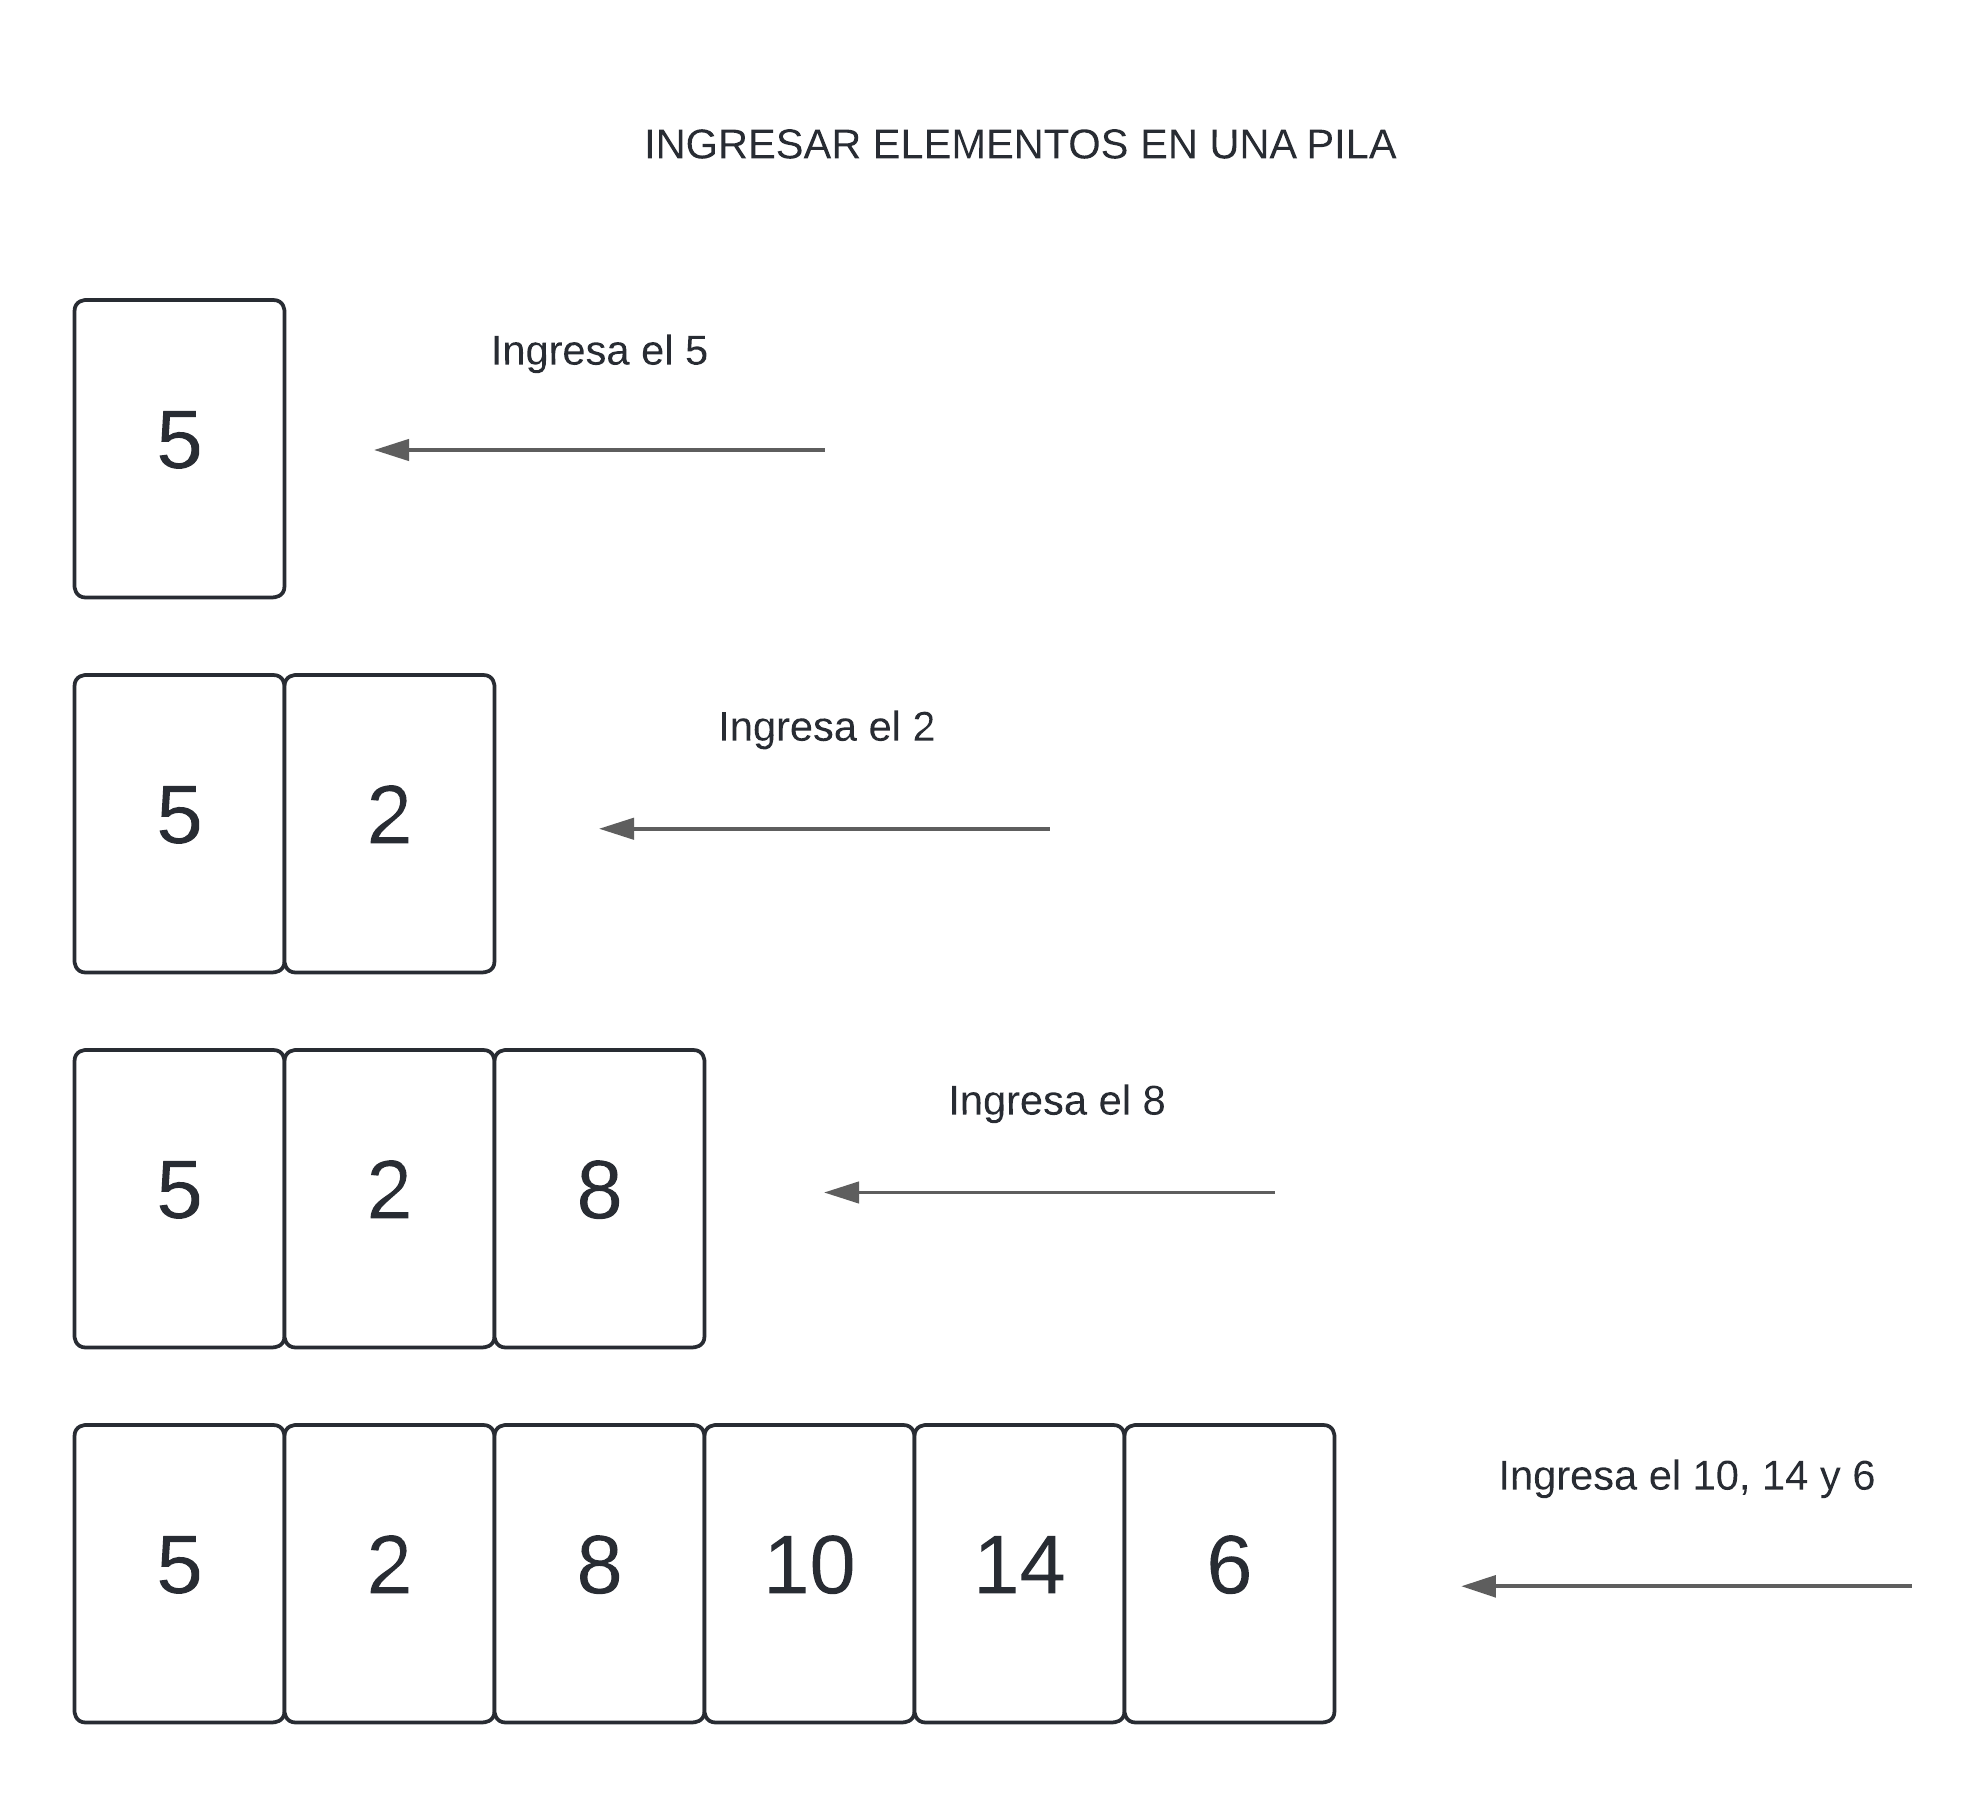
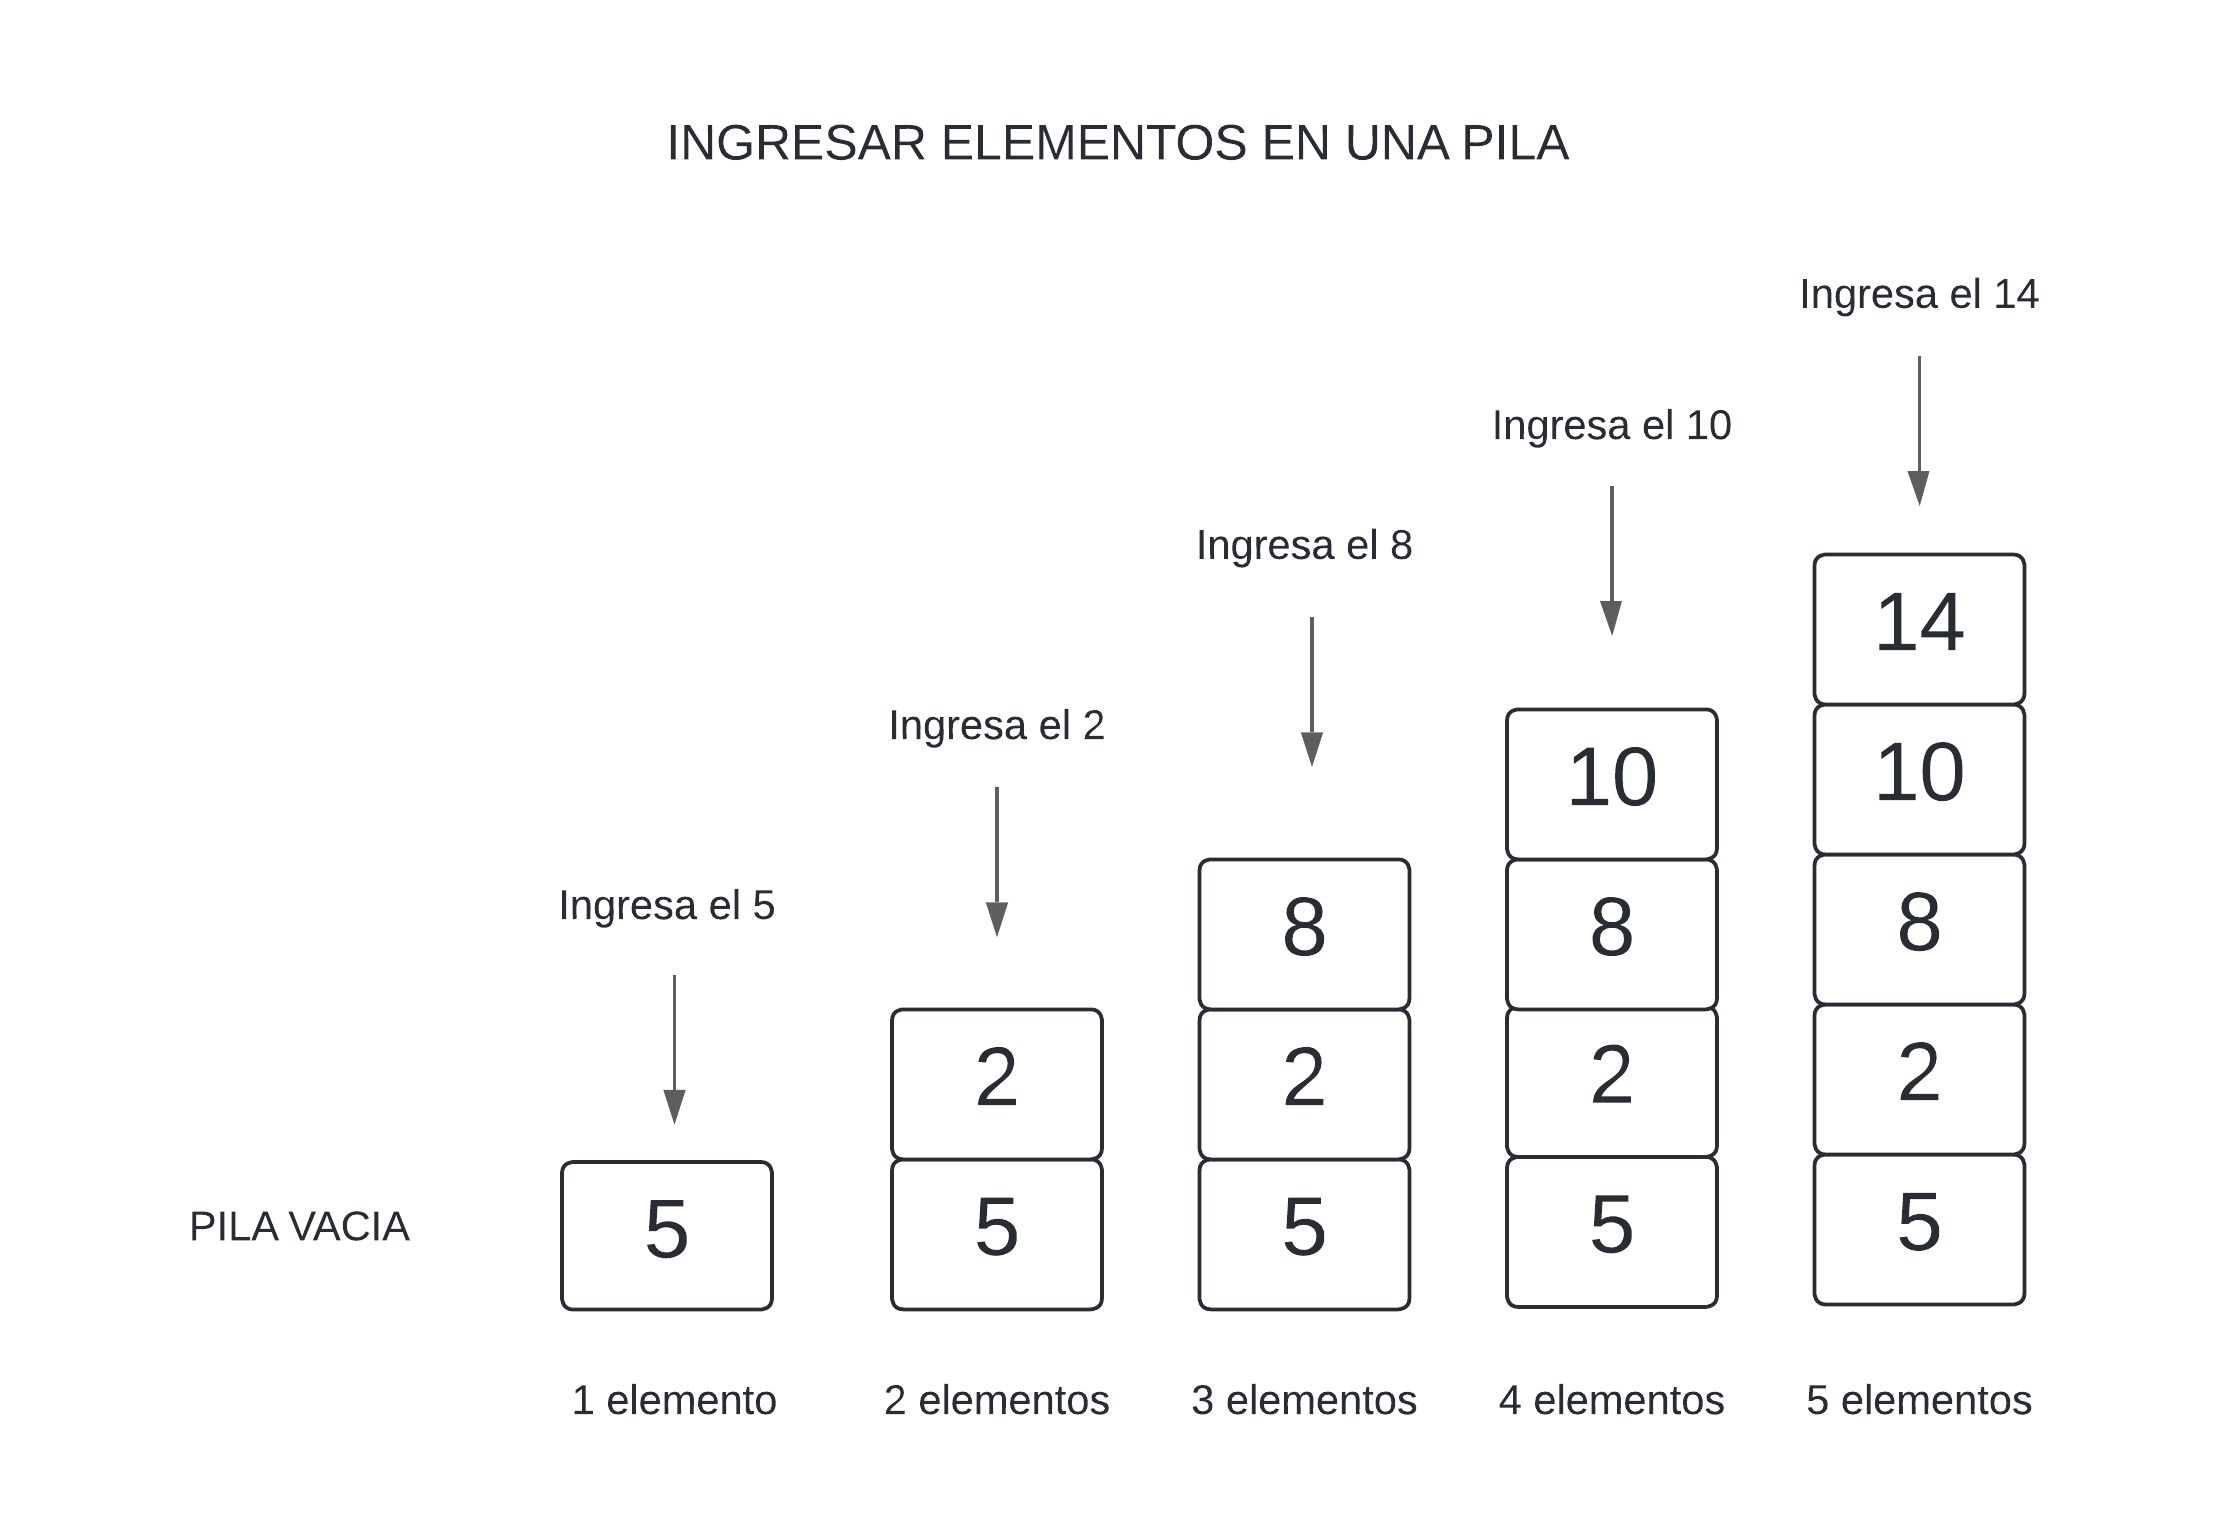
Completando el primer punto teorico

diff --git a/README.md b/README.md
@@ -45,34 +45,24 @@ En `texto_almacenado` almacenaremos cada caracter que sea ingresado por `stdin`,
 </div>
 
 
-```c
-int *vector = realloc(vector_original, (n+1)*sizeof(int));
-
-if(vector == NULL)
-    return -1;
-vector_original = vector;
-```
-
-
-<div align="center">
-<img width="70%" src="img/diagrama2.svg">
-</div>
-
 ---
 
 ## Respuestas a las preguntas teóricas
 
 ## ¿Qué es una lista/pila/cola? Explicar con diagramas.
 
-Tanto la lista, pila y cola son Estructuras que almacenan datos, que tienen usos especificos, excepto por la lista, que puede funcionar como pila y cola, pero estas no pueden funcionar como lista.
+Tanto la lista, pila y cola son Estructuras que almacenan datos, ahora explicaré que es cada una y sus similitudes y diferencias.
 
 ### 1) Pila:
-La Pila está estructurado de tal manera que lo último que ingresaste, es el primero que sale.
-Ejemplo: 5, 2, 8, 10, 14, 6
+La Pila tiene la estructura de que, cuando agreguemos elementos, se van a ir apilando, pero cuando querramos sacar un elemento, siempre vamos a retirar el último que hayamos ingresado.  
+Ejemplo: Queremos ingresa en una Pila los numeros 5, 2, 8, 10, 14.
+La manera de ingresa primero sería el 5, luego le sigue el 2, luego el 8 ... hasta el 14. Entonces tendríamos nuestra pila con 5 elementos, como se muestra en la imagen:
 
 <div align="center">
 <img width="70%" src="img/pila_ingresar_elementos.png">
 </div>
+
+La manera en la que quitaremos cada elemento, siempre será el último que ingresamos. Como el número 14 fue el último que ingresamos, es el que está en el tope. Luego de sacar el 14, hay un nuevo tope, que es el número 10, entonces el próximo en salir es el 10, y así succesivamente hasta vaciar la pila.
 
 <div align="center">
 <img width="70%" src="img/pila_quitar_elementos.png">
